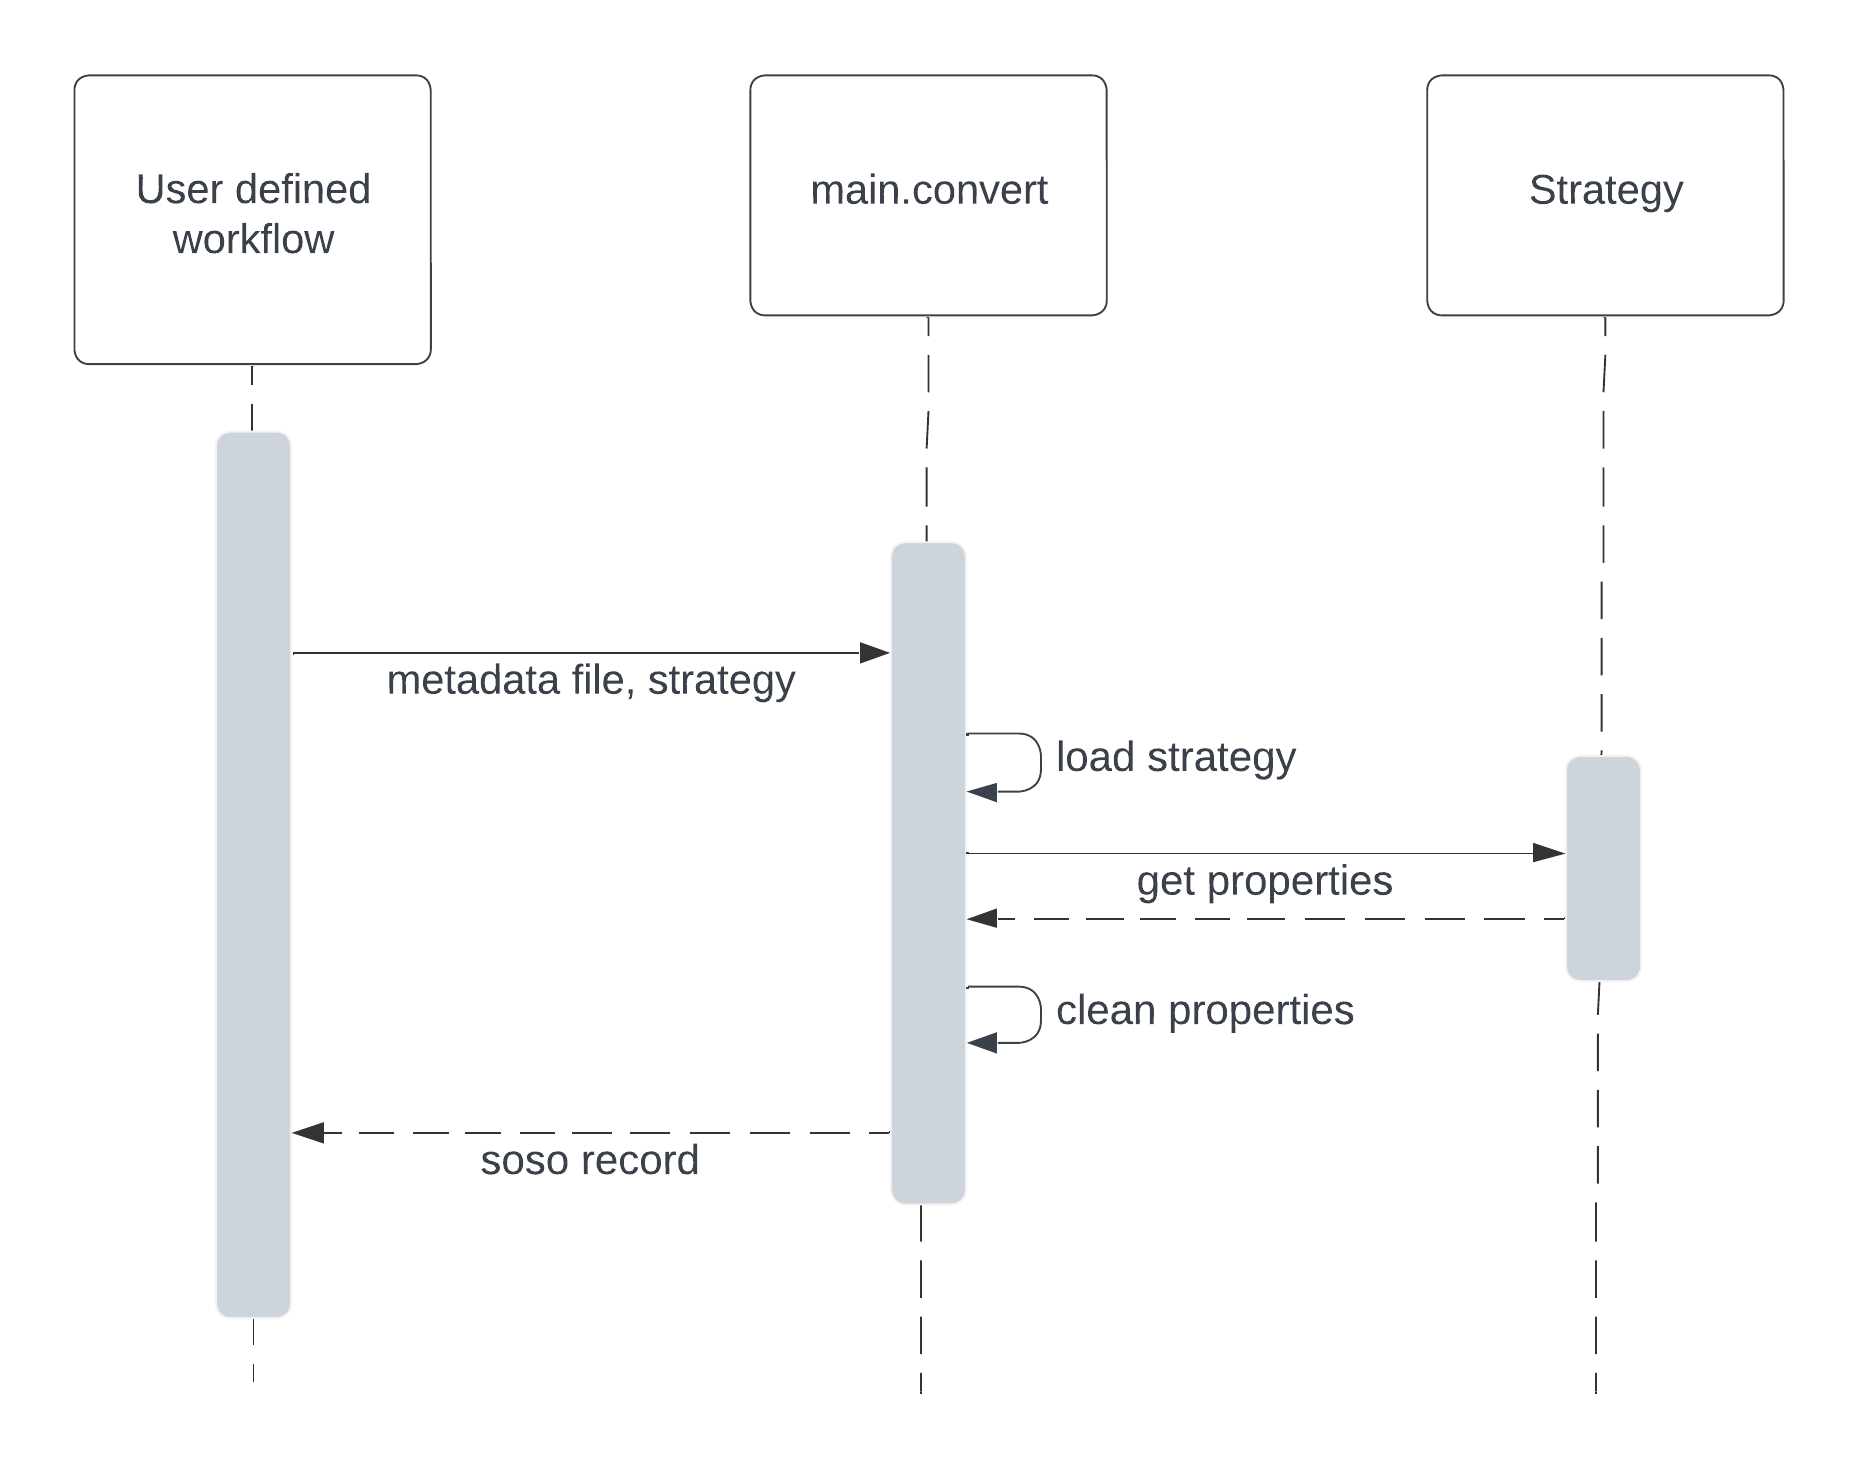
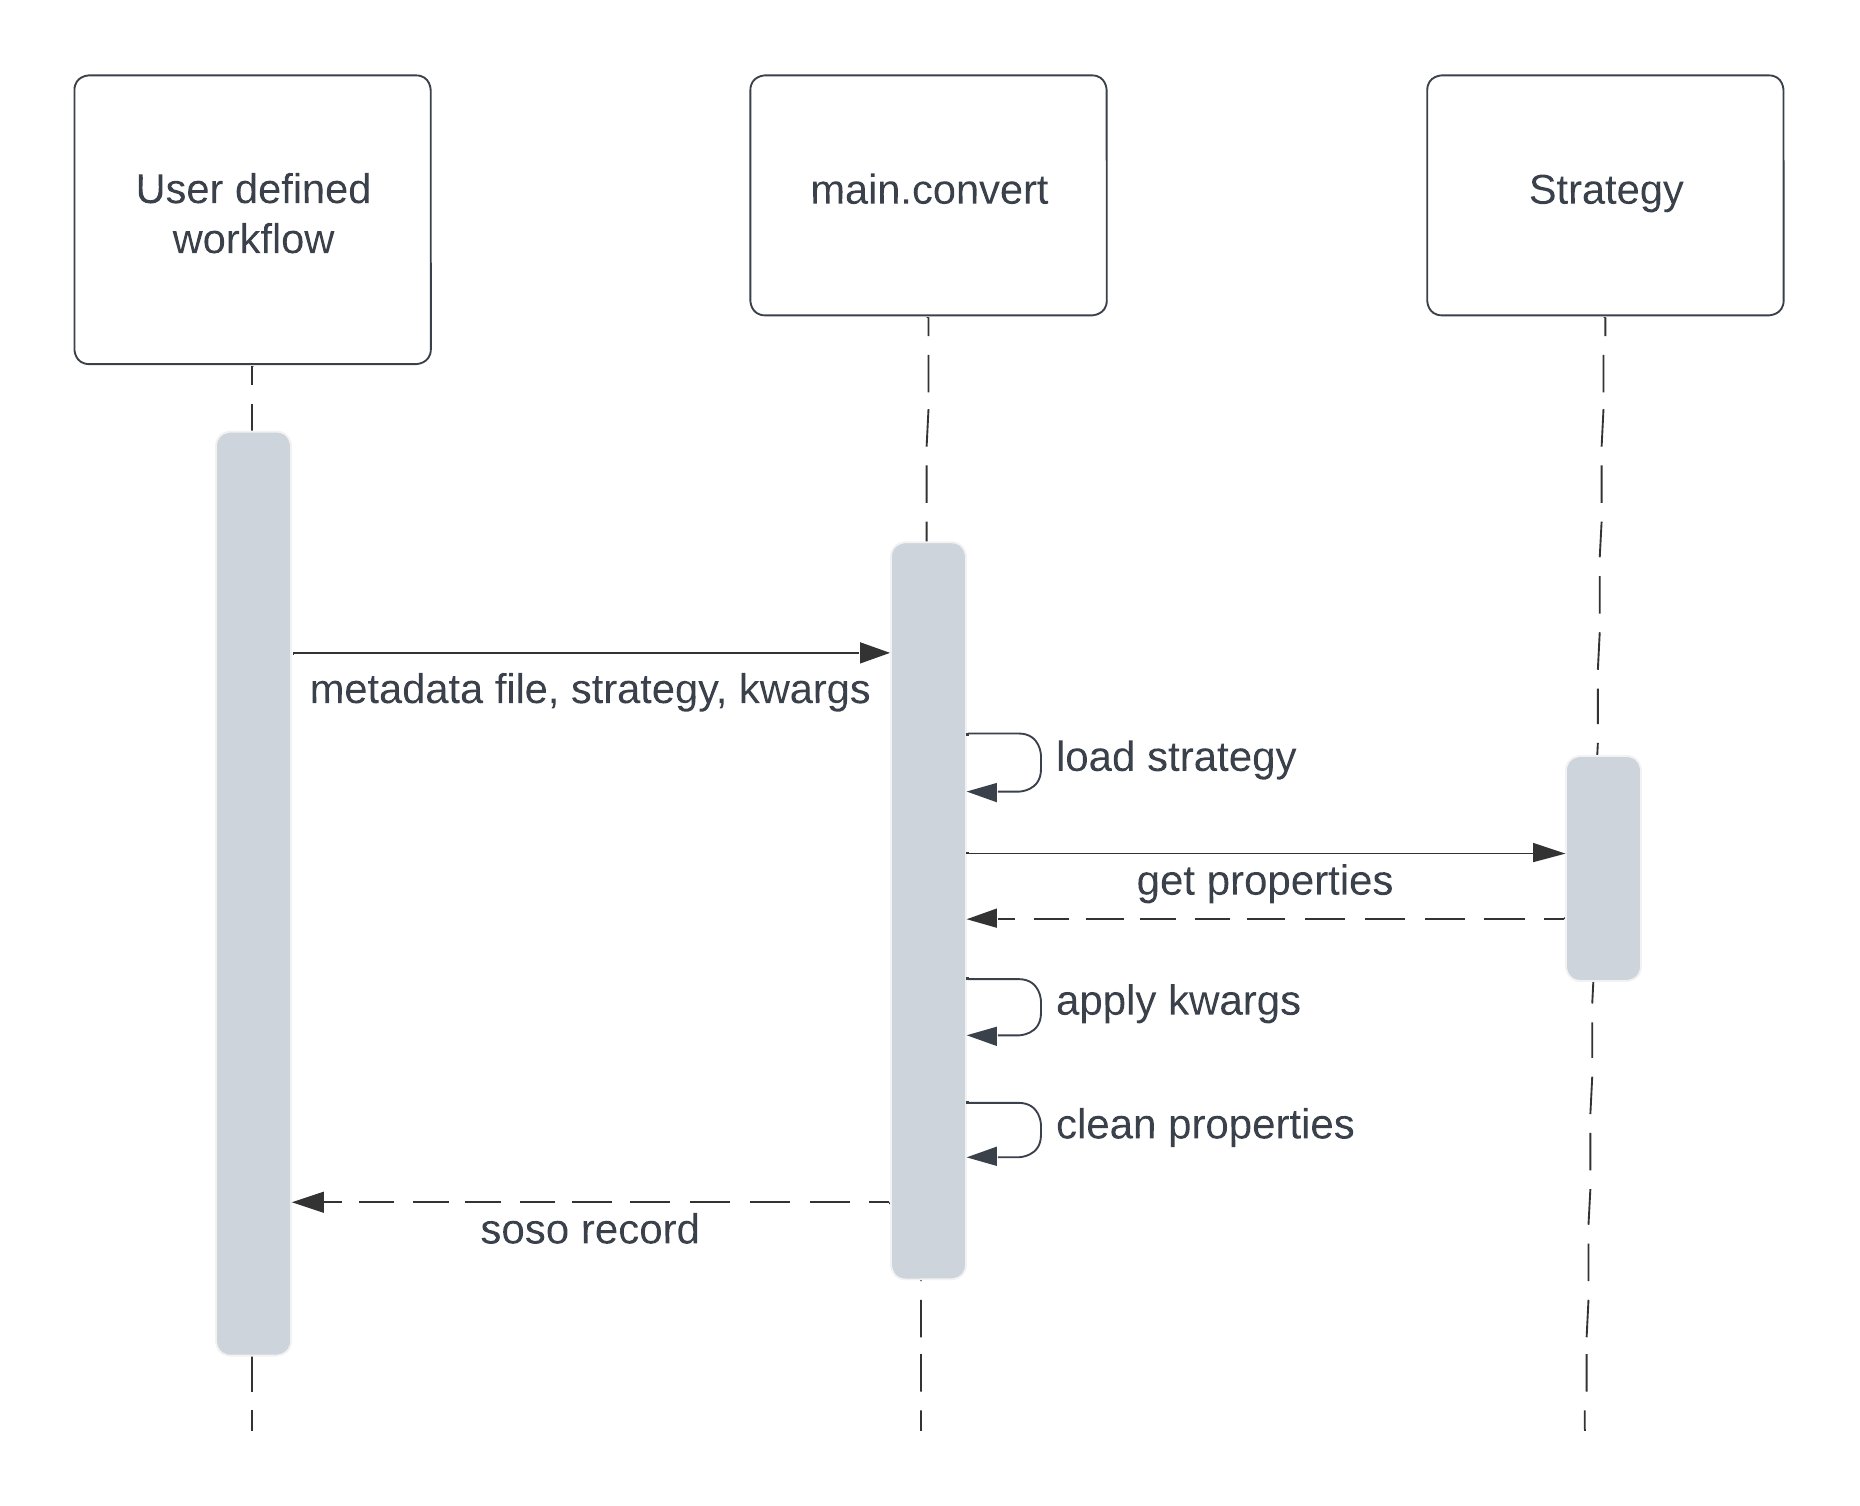
docs: describe new approach to property override with kwargs
Describe and demonstrate the recently implemented approach for
overriding any top-level SOSO property using kwargs. Provide clear
instructions and examples to illustrate its usage effectively.

Deprecate `Customization` details in the design documents in favor of
illustrating and describing the implementation in user-facing vignettes.

Related to: 158a92423eaa9d48c7c0a99ec8626463f4d3bc15

diff --git a/docs/source/dev/design.rst b/docs/source/dev/design.rst
@@ -52,7 +52,7 @@ Implementation Overview:
 
 With this pattern, new support for metadata standards or versions can be easily added as strategy modules without modifying the client code or test suite.
 
-Users typically define workflows that involve iterating over a series of metadata files. Each file, along with its corresponding strategy, is passed to `main.convert`, which returns a SOSO record.
+Users typically define workflows that iterate over a series of metadata files. For each file, along with its corresponding strategy and any unmappable properties expressed as `kwargs`, users invoke `main.convert`, which then returns a SOSO record.
 
 .. image:: sequence_diagram.png
    :alt: Strategy Pattern
@@ -80,10 +80,11 @@ Customization
 
 The Strategy Pattern employed in our application enables a high degree of user customization to solve common challenges:
 
-* Properties requiring additional processing due to data repository-specific implementations of metadata standards.
-* Properties that don't map to metadata but require external data, such as dataset landing page URLs.
+* Properties that don’t map to a metadata standard but require external data, such as dataset landing page URLs.
+* Properties requiring custom processing due to community-specific application of metadata standards.
 
-These cases are addressed by either providing the information to a strategy as arguments to parameters, or by inputting the information as `kwargs` to customized strategy methods. The user documentation has more information on this process.
+These cases can be addressed by providing information as `kwargs` to the main.convert function, which overrides properties corresponding to `kwargs` key names, or by modifying existing strategy methods through method overrides. For further details, refer to the user documentation.
+
 
 Alternative Implementations Considered
 ~~~~~~~~~~~~~~~~~~~~~~~~~~~~~~~~~~~~~~
@@ -198,42 +199,3 @@ Utilities
 ^^^^^^^^^
 
 Strategy-specific utility functions are tested in their own test suite module named `test_[strategy].py`. General utility functions used across different strategies are tested in `test_utilities.py`.
-
-Customization
-~~~~~~~~~~~~~
-
-Parameter Inputs
-^^^^^^^^^^^^^^^^
-
-Some SOSO properties do not have direct mappings to metadata standards but can be supplemented with external information. For instance, the `schema:url` property, which specifies the dataset landing page URL, might not be included in the metadata record but is accessible through the repository system managing the metadata.
-
-To incorporate such information into a SOSO record, users can provide it as a `kwargs` input to the `main.convert` function, matching a defined parameter specific to the strategy. The strategy then utilizes this parameter to create the corresponding property.
-
-We have opted to implement this feature at both the `main.convert` and strategy levels to accommodate potential variations in property mappings across metadata standards. This ensures that parameters relevant only to certain standards are not exposed at the general `main.convert` API level.
-
-Allowing users to define properties in this manner is simpler than requiring them to override strategy methods, particularly in cases where there is a straightforward transfer of information from the parameter to the SOSO property. However, for more complex inputs and processing, method overrides may still be necessary.
-
-Some implementation notes on creating a property using this approach:
-
-* Include the parameter in the strategy docstrings, preferably using the SOSO property name for clarity.
-* Specify the input type of the parameter as `Any` to accommodate various input types the property may have.
-* Define the target SOSO property created through this parameter to avoid confusion with similarly named properties elsewhere in the SOSO schema.
-* Incorporate test data into the strategy's test instance in `conftest.strategy_instance` using `conftest.get_kwargs`. This ensures testing of both strategy-specific unit tests and integration tests.
-
-`kwargs` and Method Overrides
-^^^^^^^^^^^^^^^^^^^^^^^^^^^^^
-
-If unmappable properties cannot be provided to a strategy through parameter inputs (as described above), more advanced approaches become necessary. This typically occurs when the input information is complex and requires customized processing. For instance, `schema:potentialAction` provides access to data, but its many complex and nested sub-properties often depend on the nuances of the repository system storing the data.
-
-To incorporate such information into a SOSO record, users can supply it as arbitrary `kwargs` inputs to the `main.convert` function. These inputs are then passed to identically named `kwargs` inputs in the specific strategy. The corresponding strategy method, customized and overridden by the user, then handles the processing. This approach allows users to define properties in a highly customizable manner.
-
-Here are some things to keep in mind when implementing this:
-
-* Method overrides apply to top-level SOSO properties defined in `interface.StrategyInterface` and called in `main.convert`. Properties outside of this scope will not be included in the final SOSO record.
-* This approach can be used to override any strategy methods, not just those for unmappable properties.
-
-
-
-
-
-

diff --git a/docs/source/index.rst b/docs/source/index.rst
@@ -28,17 +28,18 @@ The primary function is to convert metadata records into SOSO markup. To perform
     >>> r
     '{"@context": {"@vocab": "https://schema.org/", "prov": "http://www. ...}'
 
-Some SOSO properties may not be derived from metadata records alone. In such cases, additional information can be provided via `kwargs` and handled through method overrides.
+Some SOSO properties may not be derived from metadata records alone. In such cases, additional information can be provided via `kwargs`, where keys match the property name, and values are the property value.
 
-    >>> from soso.strategies.eml import EML  # import the strategy
-    >>> def get_url(self):                   # define a new method
-    ...     return self.kwargs['url']
-    >>> EML.get_url = get_url                # override the method
-    >>> r = convert(file='metadata.xml', strategy='EML', url='https://www.sample-data-repository.org/dataset/472032')  # use kwargs
+For example, the `url` property representing the landing page URL does not exist in an EML metadata record. But this information is known to the repository hosting the dataset.
+
+    >>> kwargs = {'url': 'https://sample-data-repository.org/dataset/472032'}
+    >>> r = convert(file='metadata.xml', strategy='EML', **kwargs)
     >>> r
     '{"@context": {"@vocab": "https://schema.org/", "prov": "http://www. ...}'
 
-For further details, please refer to the :ref:`advanced` section in the User Guide.
+It's worth noting that this `kwargs` approach is not limited to supplying unmappable properties; it can be utilized to override any top-level SOSO property.
+
+Unmappable properties are listed in the strategy documentation.
 
 The User Guide
 --------------

diff --git a/docs/source/user/quickstart.rst b/docs/source/user/quickstart.rst
@@ -28,3 +28,20 @@ The primary function is to convert metadata records into SOSO markup. To perform
     '{"@context": {"@vocab": "https://schema.org/", "prov": "http://www. ...}'
 
 For a list of available strategies, please refer to the documentation of the `main.convert` function.
+
+
+Unmappable Properties
+---------------------
+
+Some SOSO properties may not be derived from metadata records alone. In such cases, additional information can be provided via `kwargs`, where keys match the property name, and values are the property value.
+
+For example, the `url` property representing the landing page URL does not exist in an EML metadata record. But this information is known to the repository hosting the dataset.
+
+    >>> kwargs = {'url': 'https://sample-data-repository.org/dataset/472032'}
+    >>> r = convert(file='metadata.xml', strategy='EML', **kwargs)
+    >>> r
+    '{"@context": {"@vocab": "https://schema.org/", "prov": "http://www. ...}'
+
+It's worth noting that this `kwargs` approach is not limited to supplying unmappable properties; it can be utilized to override any top-level SOSO property.
+
+Unmappable properties are listed in the strategy documentation.
